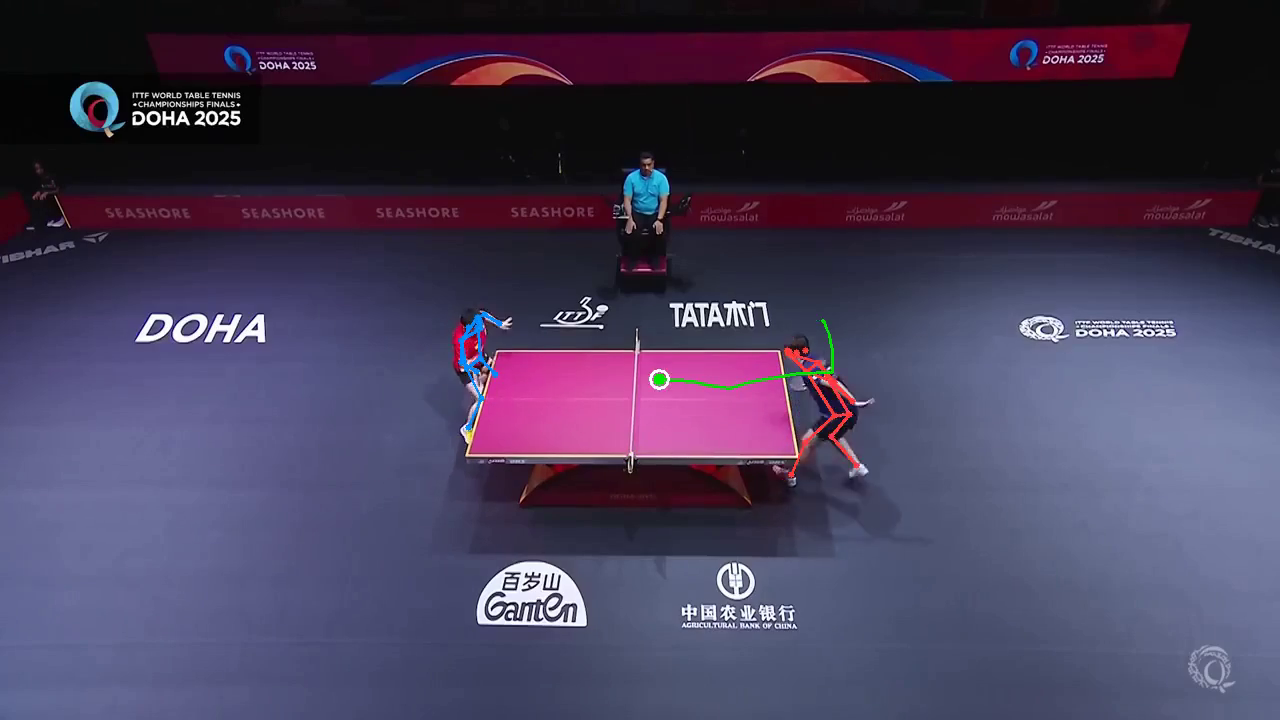
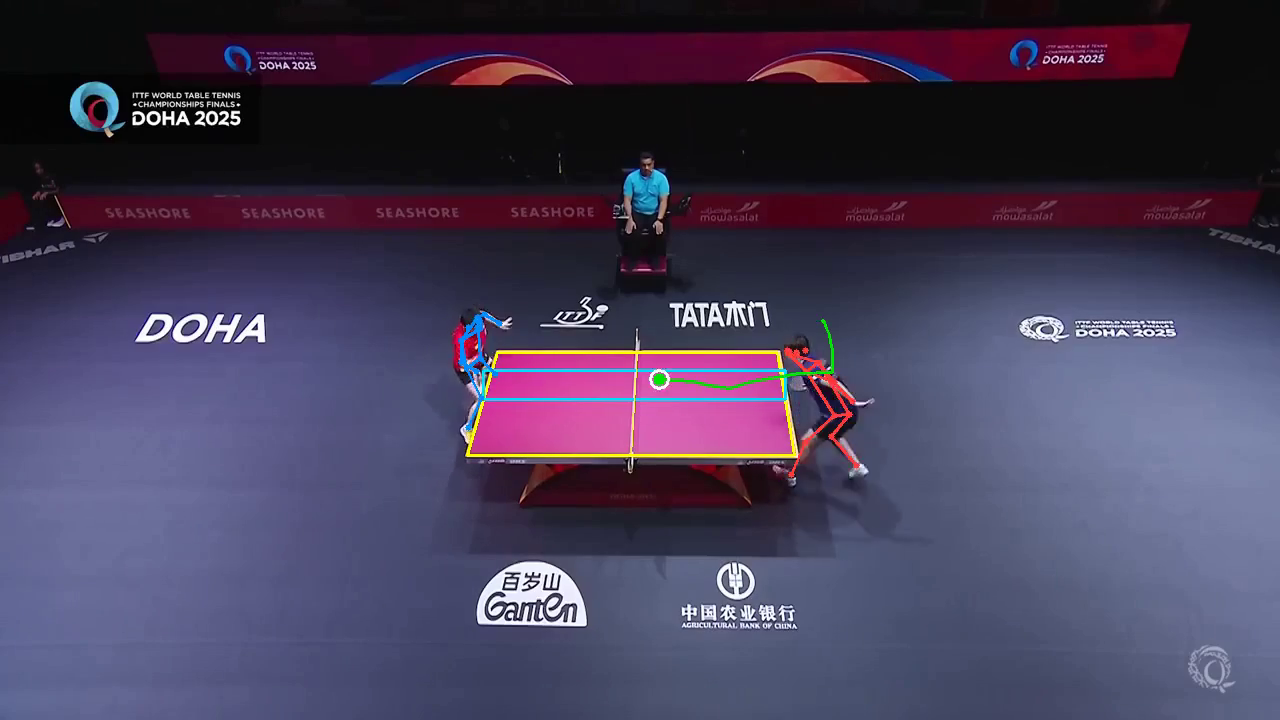
render: mark projected table outline in 2D view; drop implausible 3D ball points (data + render)
Camera calibration verified correct (constant-geometry table reprojects onto the
real table; 3D poses/ball reproject onto players/ball). The 3D artefacts were
outlier ball-reconstruction points, now filtered using the table as a metric reference.

Changed region(s): [[0.3438, 0.4889, 0.625, 0.6417]]

diff --git a/scripts/render_rally.py b/scripts/render_rally.py
@@ -23,8 +23,35 @@ import imageio.v2 as imageio
 import matplotlib.pyplot as plt
 import numpy as np
 import pandas as pd
+import yaml
 
 from pipeline import config
+
+# The regulation table is a CONSTANT metric reference: projecting it with the
+# estimated camera is both a calibration QC and the table outline drawn in 2D.
+_W, _L, _NET = config.TABLE_WIDTH / 2, config.TABLE_LENGTH / 2, config.NET_HEIGHT
+TABLE_CORNERS = np.array([[-_W, -_L, 0], [_W, -_L, 0], [_W, _L, 0], [-_W, _L, 0]], float)
+NET_QUAD = np.array([[-_W, 0, 0], [_W, 0, 0], [_W, 0, _NET], [-_W, 0, _NET]], float)
+CENTER_LINE = np.array([[0, -_L, 0], [0, _L, 0]], float)
+
+
+def _load_cam(rally_dir: Path):
+    c = yaml.safe_load((rally_dir / "camera.yaml").read_text(encoding="utf-8"))
+    rvec = np.array(c["rvec"], float).reshape(3, 1)
+    tvec = np.array(c["tvec"], float).reshape(3, 1)
+    K = np.array([[c["f"], 0, c["w"] / 2], [0, c["f"], c["h"] / 2], [0, 0, 1]], float)
+    return rvec, tvec, K
+
+
+def _project(pts_world, rvec, tvec, K):
+    img, _ = cv2.projectPoints(np.asarray(pts_world, float).reshape(-1, 1, 3), rvec, tvec, K, None)
+    return img.reshape(-1, 2)
+
+
+def _plausible_ball(df: pd.DataFrame) -> pd.DataFrame:
+    """Drop physically-impossible reconstructed points using the table geometry:
+    ball must be on/above the surface and within a sane play volume."""
+    return df[(df.z > -0.15) & (df.z < 1.2) & (df.x.abs() < 1.5) & (df.y.abs() < 3.0)]
 
 # H36M-17 skeleton (MotionBERT output order)
 H36M_EDGES = [(0, 1), (1, 2), (2, 3), (0, 4), (4, 5), (5, 6), (0, 7), (7, 8),
@@ -39,6 +66,7 @@ GREEN = (0, 230, 0)
 
 def _ball_by_frame(rally_dir: Path, n_frames: int):
     df = pd.read_csv(rally_dir / "ball_traj_3D.csv").drop_duplicates("idx")
+    df = _plausible_ball(df)
     pos = {int(r.idx): (r.x, r.y, r.z) for r in df.itertuples()}
     xs = np.array(sorted(pos))
     return pos, xs, df
@@ -55,6 +83,12 @@ def render_2d(rally_dir: Path, out: Path) -> None:
         f = int(it["image_id"].split(".")[0])
         poses[it["idx"]][f] = np.array(it["keypoints"]).reshape(-1, 3)
 
+    # Project the constant-geometry table with the estimated camera (calibration QC).
+    rvec, tvec, K = _load_cam(rally_dir)
+    tbl = _project(TABLE_CORNERS, rvec, tvec, K).astype(int)
+    net = _project(NET_QUAD, rvec, tvec, K).astype(int)
+    ctr = _project(CENTER_LINE, rvec, tvec, K).astype(int)
+
     writer = imageio.get_writer(out, fps=fps, macro_block_size=None)
     trail = []
     i = 0
@@ -62,6 +96,10 @@ def render_2d(rally_dir: Path, out: Path) -> None:
         ok, frame = cap.read()
         if not ok:
             break
+        # projected table outline (yellow), net (cyan), centre line
+        cv2.polylines(frame, [tbl], True, (0, 255, 255), 2)
+        cv2.polylines(frame, [net], True, (255, 220, 0), 2)
+        cv2.line(frame, tuple(ctr[0]), tuple(ctr[1]), (0, 255, 255), 1)
         # 2D skeletons
         for pid, color in ((0, BLUE), (1, RED)):
             kp = poses[pid].get(i)

diff --git a/pipeline/ball.py b/pipeline/ball.py
@@ -84,7 +84,29 @@ def _reconstruct_3d(rally_dir: Path, cfg: config.PipelineConfig) -> Path:
     )
     if not out_csv.exists():
         raise StageError(f"rally.py did not produce {out_csv}")
+    _filter_ball_3d(out_csv, cfg)
     return out_csv
+
+
+def _filter_ball_3d(csv_path: Path, cfg: config.PipelineConfig) -> None:
+    """Drop physically-impossible reconstructed 3D ball points.
+
+    rally.py's per-segment physics solve occasionally diverges, placing points
+    below the table or far outside the play volume. The table is a fixed metric
+    reference, so we can reject anything on the wrong side of it.
+    """
+    import pandas as pd
+    try:
+        df = pd.read_csv(csv_path)
+    except Exception:
+        return
+    half_w = config.TABLE_WIDTH / 2 + 1.0     # allow reaching wide of the table
+    half_l = config.TABLE_LENGTH / 2 + 1.6    # allow serving behind the end lines
+    keep = (df["z"] > -0.15) & (df["z"] < 1.5) & (df["x"].abs() < half_w) & (df["y"].abs() < half_l)
+    dropped = int((~keep).sum())
+    if dropped:
+        df[keep].to_csv(csv_path, index=False)
+        LOG.info("[ball] dropped %d implausible 3D points (kept %d)", dropped, int(keep.sum()))
 
 
 def run_ball(rally_dir: Path | str, cfg: config.PipelineConfig, force: bool = False) -> Path: